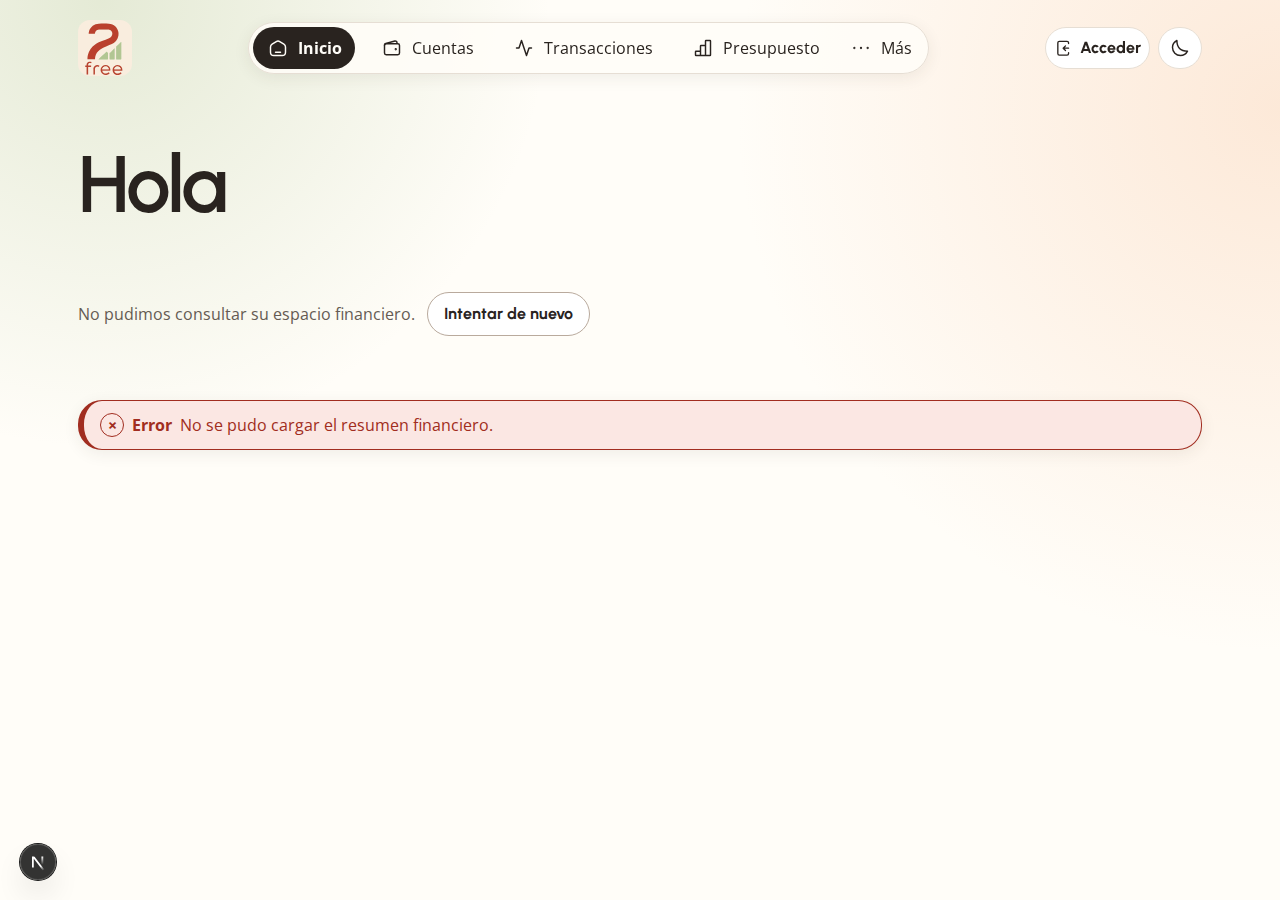
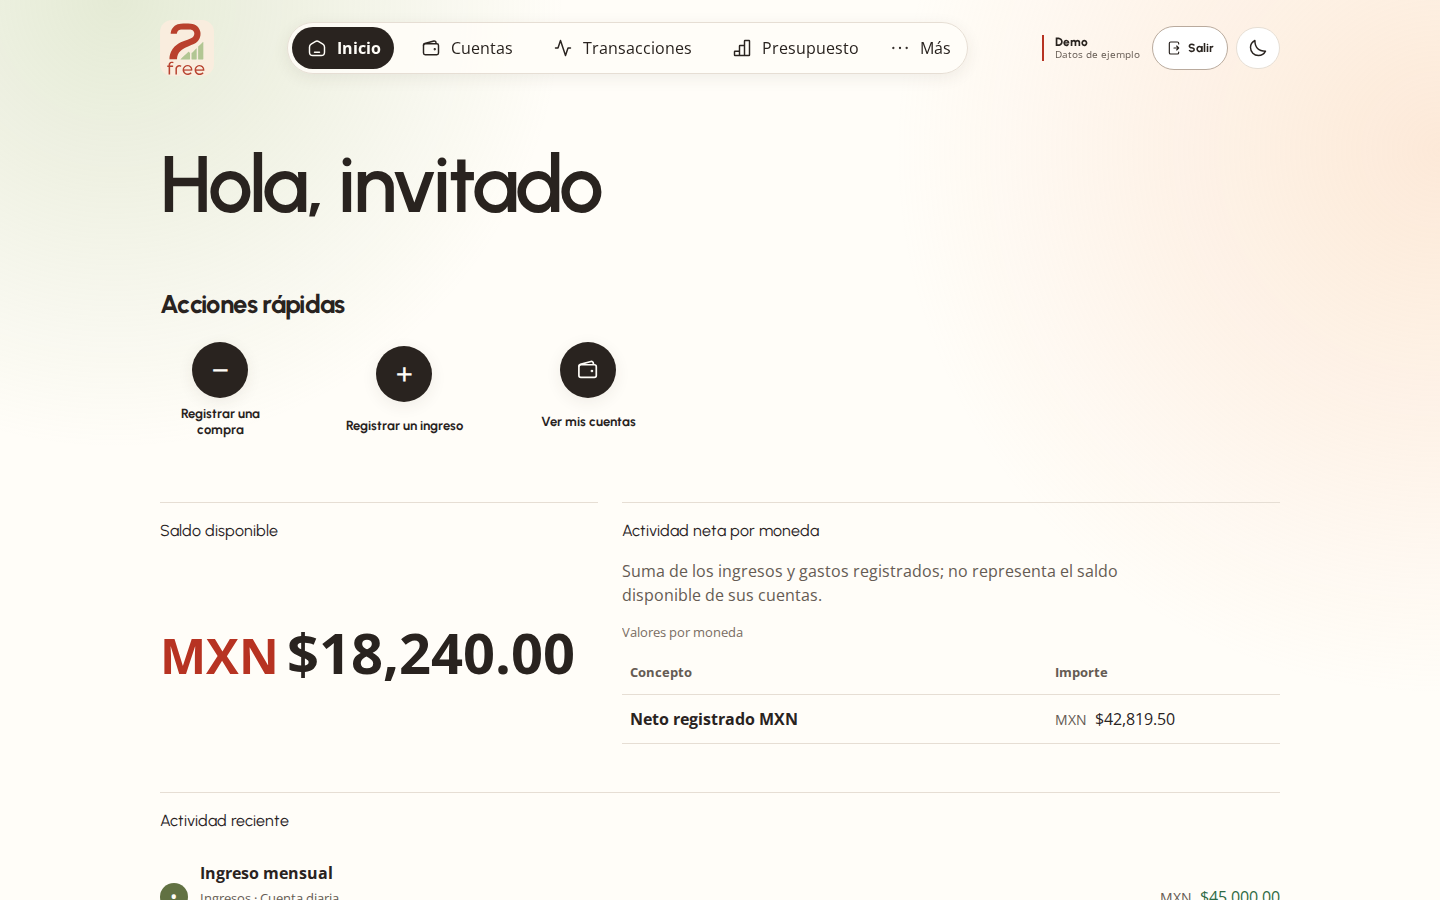
docs: refresh guest mode screenshots

diff --git a/README.md b/README.md
@@ -31,12 +31,13 @@ fuera de la tienda.
 
 ## Experiencia
 
-| Escritorio                                                                                                                         | Móvil                                                                                                                        |
-| ---------------------------------------------------------------------------------------------------------------------------------- | ---------------------------------------------------------------------------------------------------------------------------- |
-| ![Panel financiero de 2 Free en escritorio](artifacts/visual/mobile-first-finance-experience/route/route-desktop-light-motion.png) | ![Panel financiero de 2 Free en móvil](artifacts/visual/mobile-first-finance-experience/route/route-mobile-light-motion.png) |
+| Escritorio                                                                                                                      | Móvil                                                                                                                     |
+| ------------------------------------------------------------------------------------------------------------------------------- | ------------------------------------------------------------------------------------------------------------------------- |
+| ![Modo invitado de 2 Free en escritorio](artifacts/visual/mobile-first-finance-experience/route/route-desktop-light-motion.png) | ![Modo invitado de 2 Free en móvil](artifacts/visual/mobile-first-finance-experience/route/route-mobile-light-motion.png) |
 
-La misma arquitectura visual se adapta a web, AppImage y Android. Los flujos complejos aparecen bajo
-demanda, los montos se calculan sin punto flotante binario y el modo local no requiere cuenta ni red.
+Estas capturas muestran el modo invitado disponible en la web, sin registro ni datos reales. La misma
+arquitectura visual se adapta a web, AppImage y Android. Los flujos complejos aparecen bajo demanda,
+los montos se calculan sin punto flotante binario y el modo local no requiere cuenta ni red.
 
 ## Tecnologías
 
